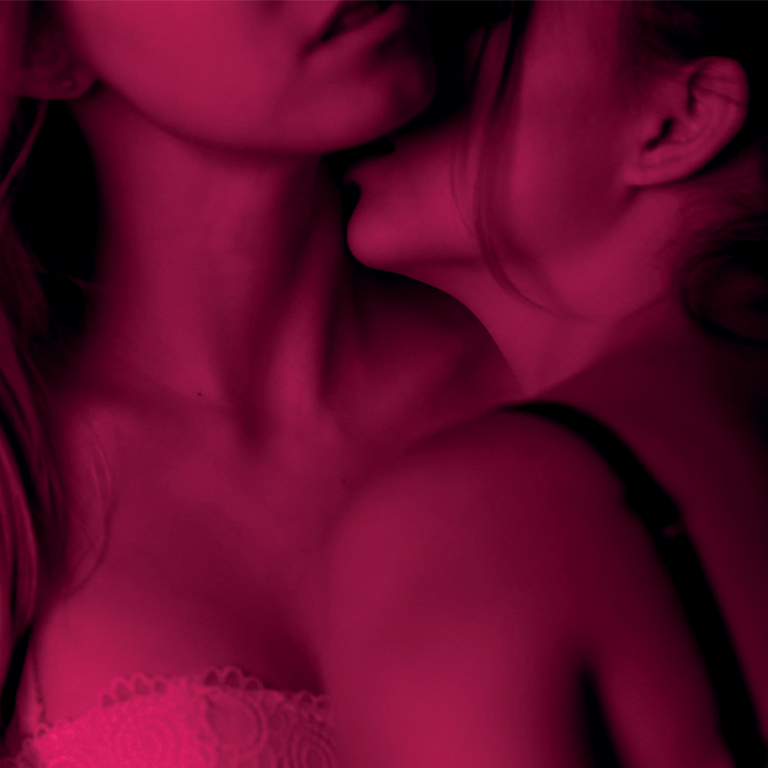
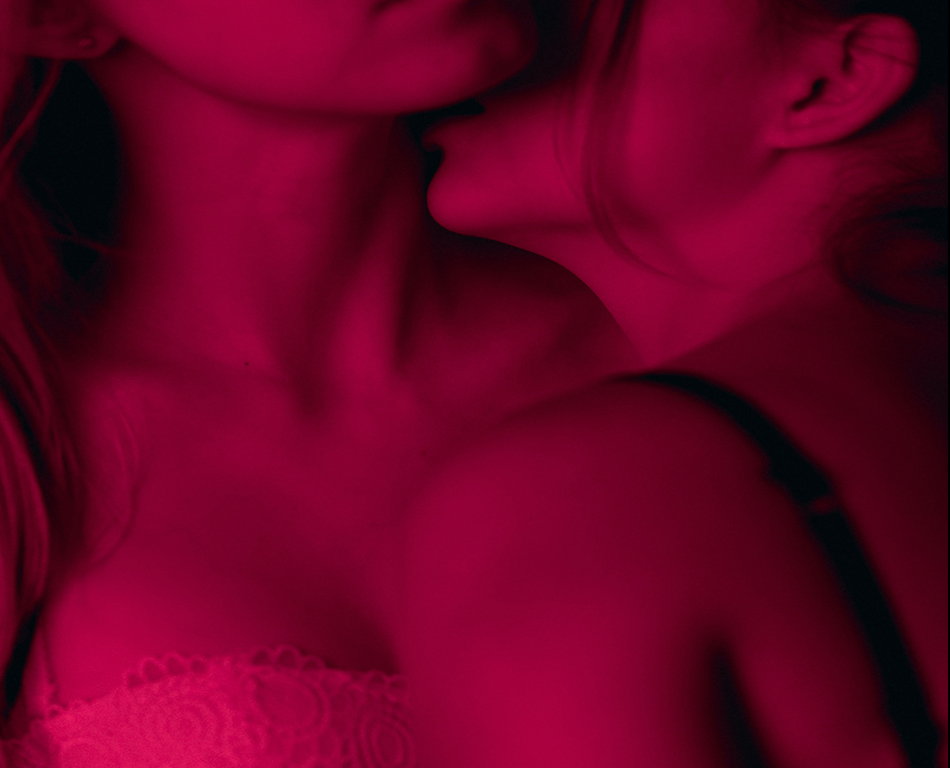
redimension des images ré-upload

diff --git a/style.css b/style.css
@@ -13,6 +13,7 @@ filter: progid:DXImageTransform.Microsoft.gradient(startColorstr="#020202",endCo
     font-family: robo;
     font-size: 35px;
 }
+/*
 nav{
     position: relative;
     width: auto;
@@ -72,7 +73,7 @@ nav .start-home, a:nth-child(4):hover~.animation{
 a:nth-child(5){
  width: 140px;
 }
-
+*/
 .accueil{
     height: 768px;
     width: auto;
@@ -198,3 +199,171 @@ a:nth-child(5){
     transform:translateY(0) ;
     transition: 1s cubic-bezier(.5, 0, 0, 1);
 }
+
+/* Basic styling */
+* {
+    box-sizing: border-box;
+    padding: 0;
+    margin: 0;
+  }
+  .font{
+    font-family: robo;
+    font-size: 35px;
+}
+  body {
+    font-family: sans-serif;
+  }
+  
+  nav {
+    background: #222;
+    padding: 5px 20px;
+    color: white;
+  }
+  ul {
+    list-style-type: none;
+    height:  50px;
+    text-align: center;
+  }
+  a {
+    color: white!important;
+    text-decoration: none;
+  }
+  a:hover {
+    text-decoration: underline;
+  }
+  .logo a:hover {
+    text-decoration: none;
+  }
+  .menu li {
+    font-size: 16px;
+    padding: 15px 5px;
+    white-space: nowrap;
+  }
+  .logo a,
+  .toggle a {
+    font-size: 20px;
+  }
+  .button.secondary {
+    border-bottom: 1px #444 solid;
+  }
+  
+  /* Mobile menu */
+  .menu {
+    display: flex;
+    flex-wrap: wrap;
+    justify-content: space-between;
+    align-items: center;
+  }
+  .toggle {
+    order: 1;
+  }
+  .item.button {
+    order: 2;
+  }
+  .item {
+    width: 100%;
+    text-align: center;
+    order: 3;
+    display: none;
+  }
+  .item.active {
+    display: block;
+  }
+  
+  /* Navbar Toggle */
+  .toggle {
+    cursor:pointer;
+  }
+  .bars {
+    background: #999;
+    display: inline-block;
+    height: 2px;
+    position: relative;
+    transition: background .2s ease-out;
+    width: 18px;
+  }
+  .bars:before,
+  .bars:after {
+    background: #999;
+    content: '';
+    display: block;
+    height: 100%;
+    position: absolute;
+    transition: all .2s ease-out;
+    width: 100%;
+  }
+  .bars:before {
+    top: 5px;
+  }
+  .bars:after {
+    top: -5px;
+  }
+  
+  /* Tablet menu */
+  @media all and (min-width: 468px) {
+    .menu {
+        justify-content: center;
+    }
+  
+    .logo {
+        flex: 1;
+    }
+  
+    .item.button {
+        width: auto;
+        order: 1;
+        display: block;
+    }
+    .toggle {
+        order: 2;
+    }
+    .button.secondary {
+        border: 0;
+    }
+    .button a {
+        padding: 7.5px 15px;
+        background: teal;
+        border: 1px #006d6d solid;
+        border-radius:50em;
+    }
+    .button.secondary a {
+        background: transparent;    
+    }
+    .button a:hover {
+        text-decoration: none;
+        transition:all .25s;
+    }
+    .button:not(.secondary) a:hover {
+        background: #006d6d;
+        border-color: #005959;
+    }
+    .button.secondary a:hover {
+        color: #ddd;
+    } 
+  }
+  
+  /* Desktop menu */
+  @media all and (min-width: 768px) {
+    .item {
+        display: block;
+        width: auto;
+    }
+    .toggle {
+        display: none;
+    }
+    .logo {
+        order: 0;
+    }
+    .item {
+        order: 1;
+    }
+    .button {
+        order: 2;
+    }
+    .menu li {
+        padding: 15px 10px;
+    }
+    .menu li.button {
+        padding-right: 0;
+    }
+  }

diff --git a/index.html b/index.html
@@ -14,12 +14,14 @@
 <body>
     <div class="accueil reveal">
         <nav>
-            <a href=""><span id="font">LE BALI</span></a>
-            <a href="">Le club</a>
-            <a href="">Horaires</a>
-            <a href="">Tarifs</a>
-            <a href="">Contact & accès</a>
-            <div class="animation start-home"></div>
+            <ul class="menu">
+                <li class="logo"><a href="#"><span class="font logo"> LE BALI </span></a></li>
+                <li class="item"><a href="#">Le Club</a></li>
+                <li class="item"><a href="#">Horaires</a></li>
+                <li class="item"><a href="#">Tarifs</a></li>
+                <li class="item"><a href="#">Contacts & Accès</a></li>
+                </li>
+            <li class="toggle"><span class="bars"></span></li>
         </nav>
         <div class="text ">
 
